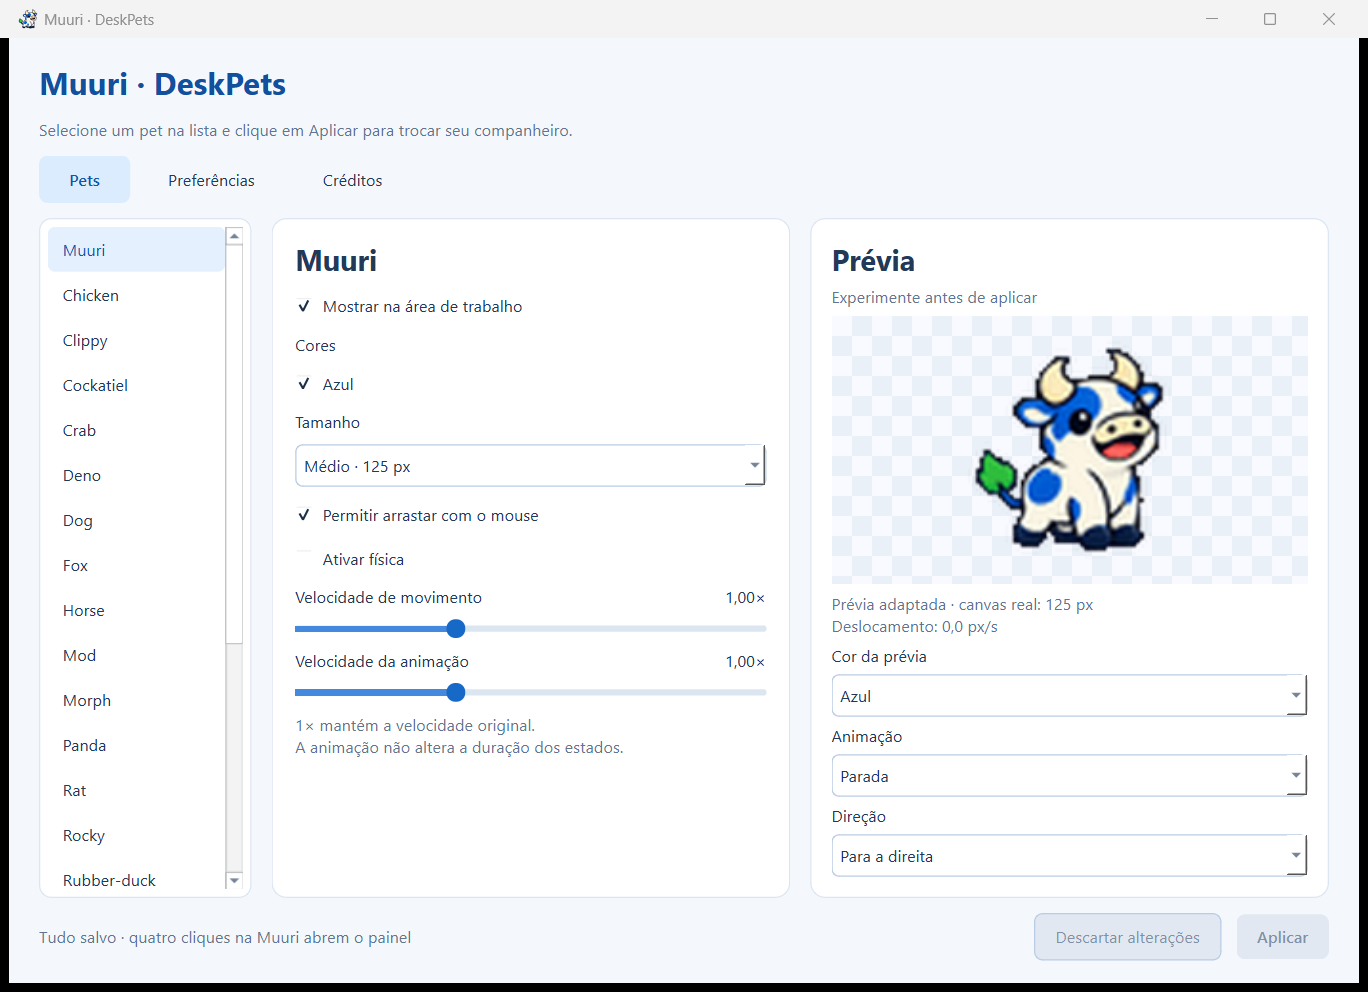
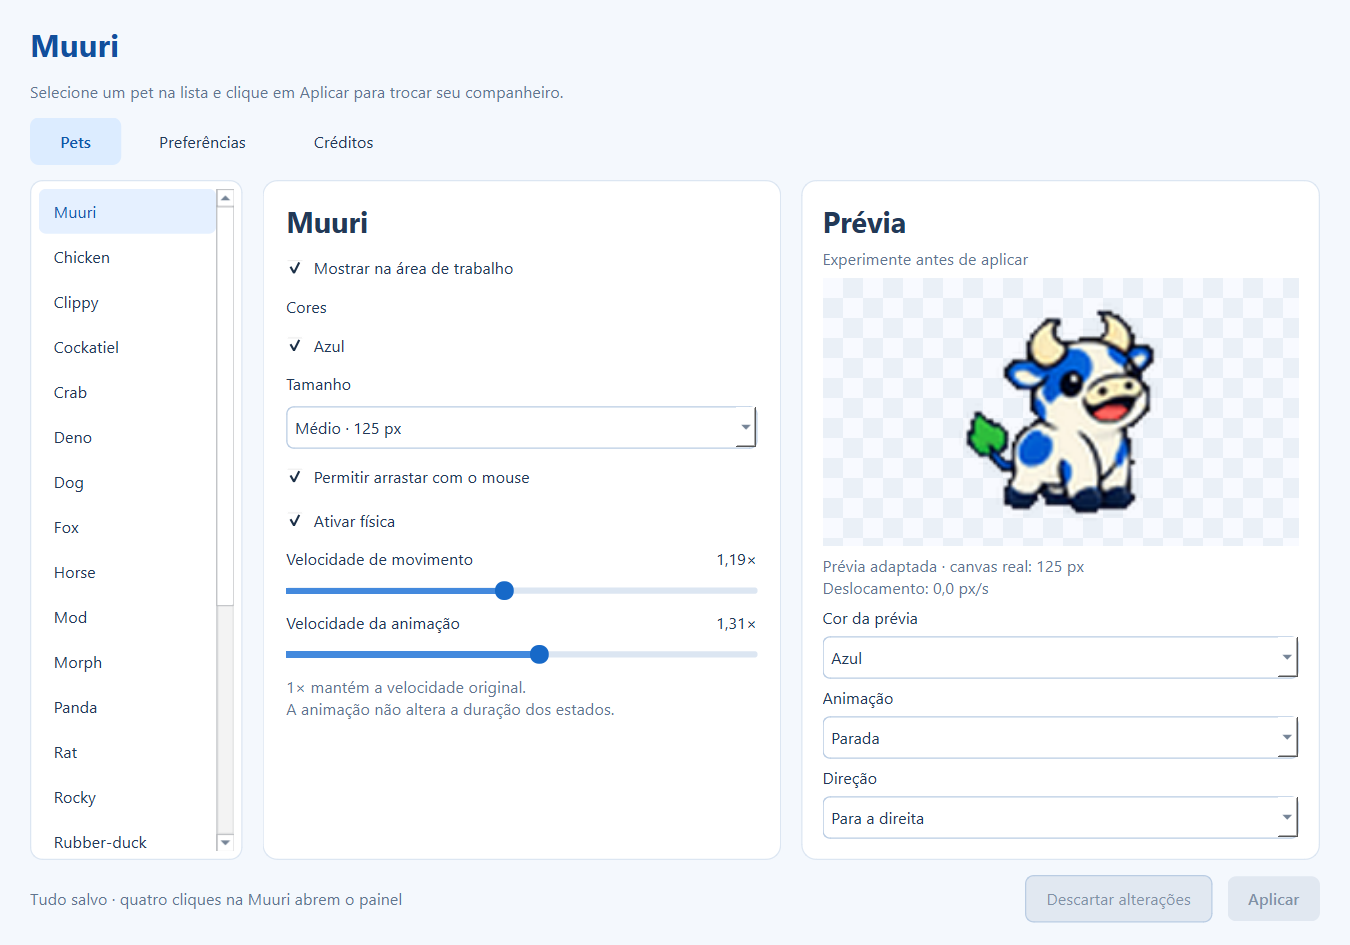
chore: polish Muuri identity and repository

diff --git a/deskpets/window.py b/deskpets/window.py
@@ -113,11 +113,11 @@ class MainWindow(QtWidgets.QMainWindow):
                                 (QtGui.QPalette.ColorRole.HighlightedText, "#1257a6")):
                 palette.setColor(role, QtGui.QColor(color))
             app.setPalette(palette)
-            self.setWindowTitle("Muuri · DeskPets")
+            self.setWindowTitle("Muuri")
             self.resize(800, 600)
             self.setWindowIcon(QtGui.QIcon(LOGO_DIR))
             app.setWindowIcon(QtGui.QIcon(LOGO_DIR))
-            ctypes.windll.shell32.SetCurrentProcessExplicitAppUserModelID(u"DeskPets")
+            ctypes.windll.shell32.SetCurrentProcessExplicitAppUserModelID(u"Muuri")
 
             self.panel = SettingsPanel(self)
             self.setCentralWidget(self.panel)
@@ -144,7 +144,7 @@ class MainWindow(QtWidgets.QMainWindow):
             tray_menu.addSeparator()
             tray_menu.addAction(quit_action)
             self.tray_icon.setContextMenu(tray_menu)
-            self.tray_icon.setToolTip("Muuri · DeskPets")
+            self.tray_icon.setToolTip("Muuri")
             self.tray_icon.activated.connect(self.tray_activated)
             self.tray_icon.show()
 

diff --git a/deskpets/main.py b/deskpets/main.py
@@ -10,7 +10,7 @@ from .single_instance import SingleInstance
 
 def main():
     if platform.system() != "Windows":
-        print("DeskPets can only run on Windows.")
+        print("Muuri funciona apenas no Windows.")
         sys.exit(1)
 
     instance = SingleInstance()
@@ -18,6 +18,8 @@ def main():
         if not instance.acquire():
             return
         app = QtWidgets.QApplication(sys.argv)
+        app.setApplicationName("Muuri")
+        app.setApplicationDisplayName("Muuri")
         window = MainWindow(app)
         window.hide()
         window.start_refresh()

diff --git a/deskpets/panel.py b/deskpets/panel.py
@@ -147,7 +147,7 @@ class SettingsPanel(QtWidgets.QWidget):
         outer = QtWidgets.QVBoxLayout(self)
         outer.setContentsMargins(24, 18, 24, 18)
         outer.setSpacing(12)
-        outer.addWidget(label("Muuri · DeskPets", "brand"))
+        outer.addWidget(label("Muuri", "brand"))
         outer.addWidget(label("Selecione um pet na lista e clique em Aplicar para trocar seu companheiro.", "muted"))
         self.tabs = QtWidgets.QTabWidget()
         outer.addWidget(self.tabs, 1)

diff --git a/deskpets/settings.py b/deskpets/settings.py
@@ -69,7 +69,7 @@ class LayerSelector(QtWidgets.QWidget):
 class Settings(QtWidgets.QWidget):
     def __init__(self, main_window):
         super().__init__()
-        self.setWindowTitle("Settings")
+        self.setWindowTitle("Muuri — Preferências")
         self.setWindowIcon(QtGui.QIcon("logo.ico"))
         self.resize(900, 600)
 

diff --git a/deskpets/selector.py b/deskpets/selector.py
@@ -250,7 +250,7 @@ class PetSelector(QtWidgets.QWidget):
     def __init__(self, main_window):
         try:
             super().__init__()
-            self.setWindowTitle("Pet Selector")
+            self.setWindowTitle("Muuri — Pets")
             self.setWindowIcon(QtGui.QIcon("logo.ico"))
             self.resize(900, 600)
 

diff --git a/deskpets/size.py b/deskpets/size.py
@@ -202,7 +202,7 @@ class SizeSettings(QtWidgets.QWidget):
     def __init__(self, main_window):
         try:
             super().__init__()
-            self.setWindowTitle("Settings")
+            self.setWindowTitle("Muuri — Tamanho")
             self.setWindowIcon(QtGui.QIcon("logo.ico"))
             self.resize(900, 600)
 

diff --git a/deskpets/credits.py b/deskpets/credits.py
@@ -8,7 +8,7 @@ class BrowserWindow(QtWidgets.QMainWindow):
     def __init__(self):
         try:
             super().__init__()
-            self.setWindowTitle("DeskPets GitHub")
+            self.setWindowTitle("Muuri — Créditos do DeskPets")
             self.resize(1024, 768)
 
             self.browser = QWebEngineView()

diff --git a/README.md b/README.md
@@ -1,27 +1,41 @@
 # Muuri 🐮
 
-Uma vaquinha de desktop para Windows, baseada no [DeskPets](https://github.com/Jumitti/DeskPets).
-Mantém Python/PyQt e adiciona painel em português, arraste e física opcional.
+Uma vaquinha que vive no seu desktop.
 
-## Instalar
+<p><img src="deskpets/media/muuri/blue_idle_8fps.gif" alt="Muuri animada" width="160"></p>
 
-Baixe **Muuri-Setup.exe** na [página de versões](https://github.com/Felipx423/muuri/releases/latest),
-abra e conclua a instalação. Não precisa de Python nem VS Code.
-Para Windows 10/11 de 64 bits. O instalador 1.0.1 tem aproximadamente 31 MB.
-Ele cria atalhos no menu Iniciar e na área de trabalho; só uma instância abre por sessão.
-O aplicativo ainda não possui assinatura digital própria.
+Muuri é um desktop pet para Windows com animações, interação, arraste, física opcional e painel de configurações em português. É baseada no [DeskPets](https://github.com/Jumitti/DeskPets), mantendo Python/PyQt e os créditos da base original.
 
-## Usar
+## ✨ Recursos
 
-- Dê quatro cliques rápidos na Muuri para abrir as configurações.
-- Arraste com o mouse. Ative a física no painel para gravidade, arremesso e quique.
-- Ajuste pet, tamanho, velocidades e camada; clique em **Aplicar** para salvar.
-- Use o ícone da bandeja, perto do relógio, para abrir o painel ou sair.
-- Desinstale em **Configurações do Windows → Aplicativos**. As preferências ficam preservadas.
+- Passeios pelo desktop, animações de descanso e reações.
+- Arraste com o mouse e animação ao ser carregada.
+- Física opcional com gravidade, arremesso e quique.
+- Tamanhos e velocidades de movimento e animação independentes.
+- Painel em português, seleção de outros pets e ícone na bandeja do Windows.
+- Uma instância por sessão e preferências salvas entre execuções.
 
-![Painel da Muuri](img/muuri-painel.png)
+## 📦 Instalação
 
-## Executar pelo código
+1. Abra [Releases](https://github.com/Felipx423/muuri/releases/latest).
+2. Baixe **Muuri-Setup.exe**.
+3. Execute o instalador e conclua a instalação.
+4. Abra **Iniciar Muuri** pelo atalho ou pelo menu Iniciar.
+
+Para **Windows 10/11 de 64 bits**. Não precisa de Python nem VS Code. O aplicativo ainda não possui assinatura digital própria. Para remover, use **Configurações do Windows → Aplicativos**; as preferências ficam preservadas.
+
+## 🐮 Como usar
+
+- Dê **quatro cliques rápidos** na Muuri para abrir o painel.
+- Arraste com o mouse. Para gravidade e arremesso, marque **Ativar física** e clique em **Aplicar**.
+- Ajuste tamanho, cores, velocidades, pet e camada no painel. A prévia não altera o pet até aplicar.
+- Use o ícone na bandeja, perto do relógio, para abrir as configurações ou **Sair**.
+
+## 🖼 Screenshots
+
+![Painel de configurações da Muuri](img/muuri-painel.png)
+
+## 🛠 Executar pelo código
 
 No Windows, na raiz do projeto:
 
@@ -31,89 +45,27 @@ python -m venv .venv
 .\.venv\Scripts\python.exe run.py
 ```
 
-Para validar:
+## 🧪 Testes
+
+Com o ambiente virtual ativado:
 
 ```powershell
-.\.venv\Scripts\python.exe -m unittest discover -s tests -v
+python -m unittest discover -s tests -v
 ```
 
-Para compilar o instalador, consulte [packaging/README.md](packaging/README.md).
+Ou use diretamente `.\.venv\Scripts\python.exe` no lugar de `python`.
 
-## Créditos e licenças
+## 📦 Build
 
-Base **DeskPets**, de **Minniti Julien (Jumitti)**, sob licença MIT preservada em [LICENSE](LICENSE).
-O projeto original é inspirado em **vscode-pets**, de **tonybaloney**; os créditos das mídias originais continuam aplicáveis.
-Muuri foi adaptada a partir da referência visual fornecida pelo usuário.
-A distribuição executável inclui PyQt6 sob GPL v3, seu código-fonte e as licenças das bibliotecas.
-Os assets do código-fonte incluído ficam em `_internal/deskpets/media`; veja as instruções no ZIP.
+Consulte [packaging/README.md](packaging/README.md) para compilar o executável e o instalador. O launcher continua sendo `run.py`. O [histórico de desenvolvimento](MUURI_INTEGRATION.md) registra etapas intermediárias, não instruções atuais.
 
-<details>
-<summary>Documentação original do DeskPets</summary>
+## 📜 Créditos e licenças
 
-# DeskPets 🐶 🐿
+- **DeskPets**, por **Minniti Julien (Jumitti)**: [repositório original](https://github.com/Jumitti/DeskPets). A licença MIT e seu aviso de copyright estão preservados em [LICENSE](LICENSE).
+- **vscode-pets**, por **tonybaloney**: [projeto de inspiração da base](https://github.com/tonybaloney/vscode-pets). Os créditos e condições aplicáveis aos assets herdados continuam válidos.
+- **Muuri**: design de referência fornecido pelo usuário; animações adaptadas para esta integração.
+- **PyQt6**: a distribuição executável usa GPL v3 e inclui a licença, os fontes da aplicação e os assets necessários. As licenças das demais bibliotecas acompanham o instalador em `_internal/THIRD_PARTY_LICENSES`.
 
-Desktop pets for Windows. Directly and explicitly inspired by 
-[**vscode-pets**](https://github.com/tonybaloney/vscode-pets)
-by [**tonybaloney**](https://github.com/tonybaloney). 
-This project adopts the same core idea, small pixel creatures living on your workspace.
+O ZIP de fonte incluído no instalador reutiliza os assets de `_internal/deskpets/media`. Após extrair o fonte, copie essa pasta para `deskpets/media` antes de compilar; o ZIP autônomo disponível nas versões já inclui os assets.
 
-![screenshot](img/display.png)
-
-## Installation (Windows only)
-
-### Option 1 — Python 
-
-```bash
-pip install deskpets
-```
-
-And to run, in CMD.exe (according to have python in your PATH):
-
-```bash
-deskpets
-```
-
-### Option 2 — Executable
-
-Download the `DeskPets.zip` from the [**Release**](https://github.com/Jumitti/DeskPets/releases) section, extract it, and run `DeskPets.exe`.
-
-## Usage
-
-Launching the application spawns one or more pets in the bottom-left corner of the screen.
-
-Current behavior:
-
-* Unlimited number of pets
-* Some species support multiple color variations
-* Per-species size control
-* Position automatically adapts to the taskbar
-* Simple interaction: some pets sit when the cursor gets close
-
-## Settings
-
-![screenshot](img/settings.png)
-
-![screenshot](img/pets.png)
-
-![screenshot](img/size.png)
-
-![screenshot](img/bigger.png)
-
-## Missing Features
-
-* Bunny, cat, frog (assets not licensed yet)
-* Background system
-* Ball play mechanic
-
-## Version
-
-[CHANGELOG](CHANGELOG.md)
-
-## Credits
-
-This project is inspired by [**vscode-pets**](https://github.com/tonybaloney/vscode-pets)
-by [**tonybaloney**](https://github.com/tonybaloney).
-
-All media used in this project originates from that repository, and the original credits provided there apply here as well.
-
-</details>
+O pacote interno `deskpets`, o identificador do instalador, o mutex de instância única e a pasta instalada `MuuriDeskPets` permanecem por compatibilidade. Isso preserva imports, atualizações, preferências e a proteção contra instâncias duplicadas.

diff --git a/packaging/README.md b/packaging/README.md
@@ -27,3 +27,19 @@ _internal/deskpets/media, evitando duplicá-los dentro do ZIP. Após extrair o
 fonte, copie essa pasta para deskpets/media antes de compilar. O ZIP autônomo
 em outputs inclui também todos os assets e screenshots originais. Todas as
 espécies, licenças e código Python são preservados. A compressão é LZMA2/ultra64.
+
+
+## Identidade e compatibilidade
+
+O candidato de polish usa a versão 1.0.2, nome Muuri, executável Muuri.exe,
+instalador Muuri-Setup.exe e o ícone próprio existente. Nenhum publisher foi
+inventado: o campo AppPublisher foi omitido. Os créditos continuam no guia,
+no painel e na licença original. A versão 1.0.1 publicada não é substituída
+automaticamente por uma compilação local.
+
+O AppId do Inno Setup e DefaultDirName MuuriDeskPets são mantidos para atualizar
+a instalação anterior sem criar outra entrada. O mutex PetlayerDeskPetsMuuri
+é mantido para detectar também versões anteriores abertas. O pacote Python
+deskpets e seu entry point original continuam compatíveis; esses nomes não
+são a identidade visível do aplicativo. O AppUserModelID visível ao Windows
+passa a Muuri; a integração com a barra de tarefas pode formar um novo grupo.

diff --git a/MUURI_INTEGRATION.md b/MUURI_INTEGRATION.md
@@ -1,11 +1,12 @@
-# Registro histórico da integração
+# Histórico de desenvolvimento da Muuri
 
-Este documento registra as etapas e verificações durante o desenvolvimento.
-As instruções atuais de uso e instalação estão no README.md.
-As menções a pendências, ausência de commit ou versões antigas abaixo descrevem
-o momento de cada etapa, e não o estado atual do repositório.
+> Este documento é um histórico técnico de etapas intermediárias, incluindo
+> alternativas descartadas. Não é a documentação principal. Para instalação e
+> uso atual, consulte [README.md](README.md).
+> As pendências, versões e menções a ausência de commit abaixo descrevem o
+> momento de cada marco; não representam necessariamente o estado atual.
 
-# Muuri: integração de trabalho
+## Marco inicial: integração de trabalho
 
 Branch: `feat/muuri-pet`. Origem: https://github.com/Jumitti/DeskPets,
 commit `d1d00fc137c9494bb2de0cc660cd5915b1be0034`.
